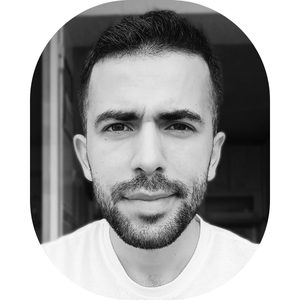
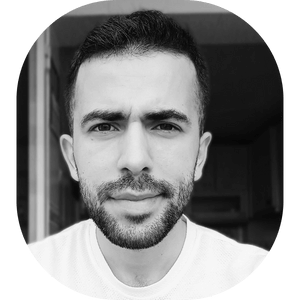
update enemy board images

diff --git a/vite-reduxtoolkit-101/hearstone/src/components/features/Card/Board/BoardCard.css b/vite-reduxtoolkit-101/hearstone/src/components/features/Card/Board/BoardCard.css
@@ -24,13 +24,13 @@
 .board-card-attack {
     position: absolute;
     font-weight: 700;
-    bottom: 17px;
+    bottom: 16px;
     left: 14px;
 }
 
 .board-card-health {
     position: absolute;
     font-weight: 500;
-    bottom: 19px;
-    right: 12px;
+    bottom: 16px;
+    right: 11px;
 }

diff --git a/vite-reduxtoolkit-101/hearstone/src/components/features/hand/cardService.ts b/vite-reduxtoolkit-101/hearstone/src/components/features/hand/cardService.ts
@@ -72,7 +72,7 @@ const enemyCardBase: Card[] = [
     cardId: Math.random(),
     cardType: "minion",
     cardCost: 1,
-    cardImageName: "cat",
+    cardImageName: "cix",
     isPlayed: false,
     cardAttack: 3,
     cardHealth: 2,
